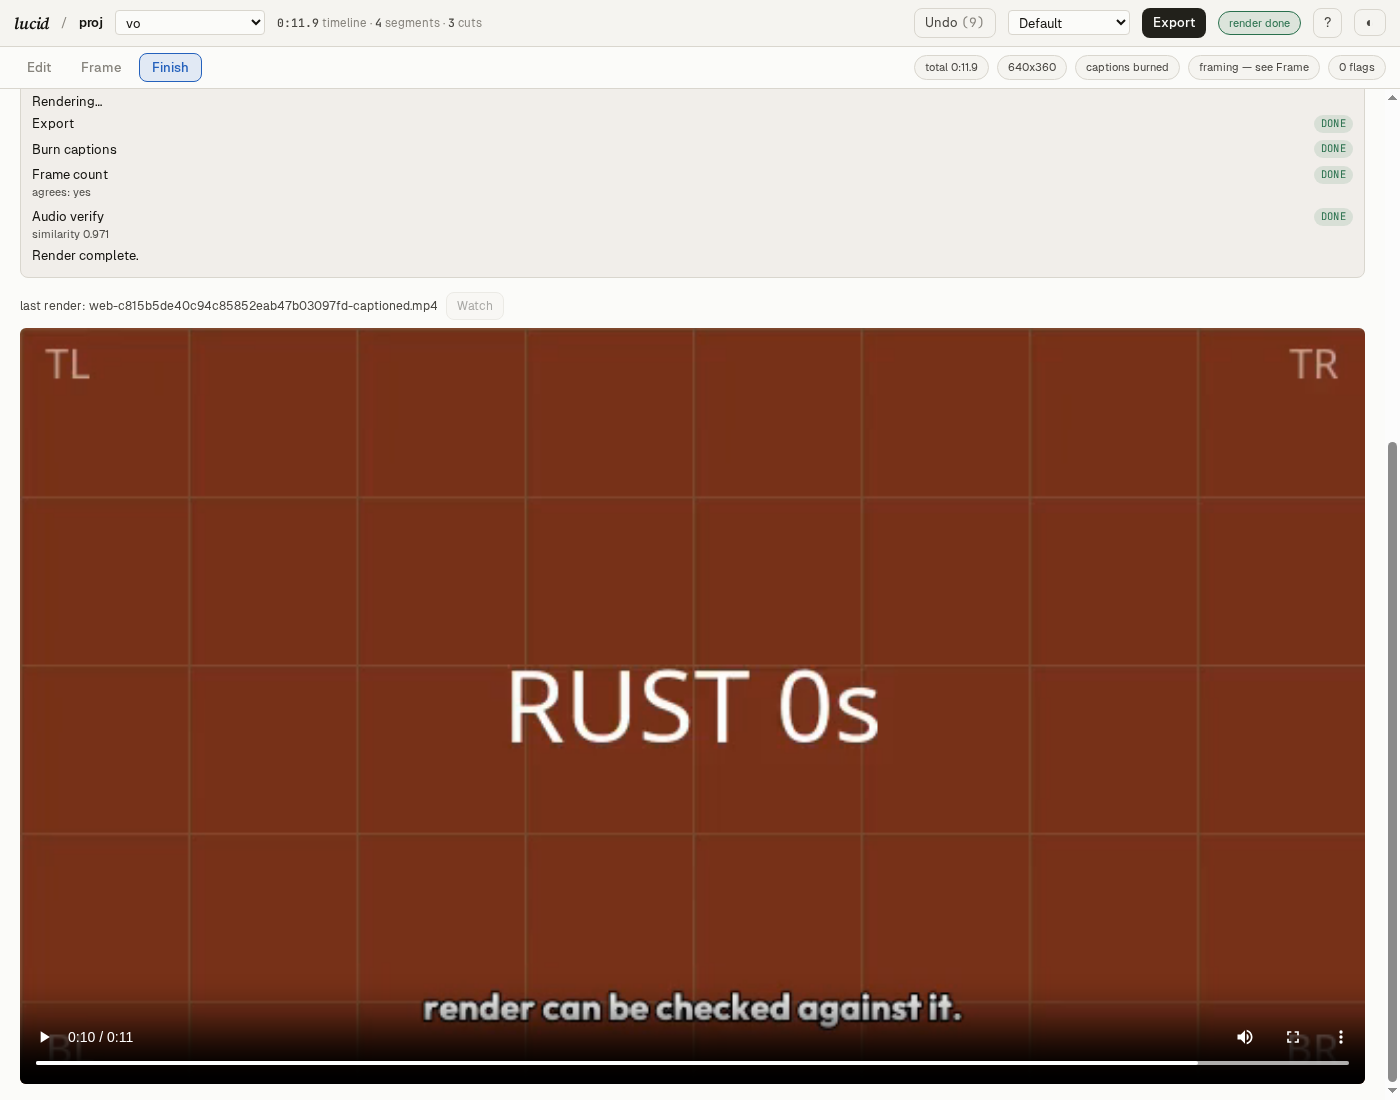
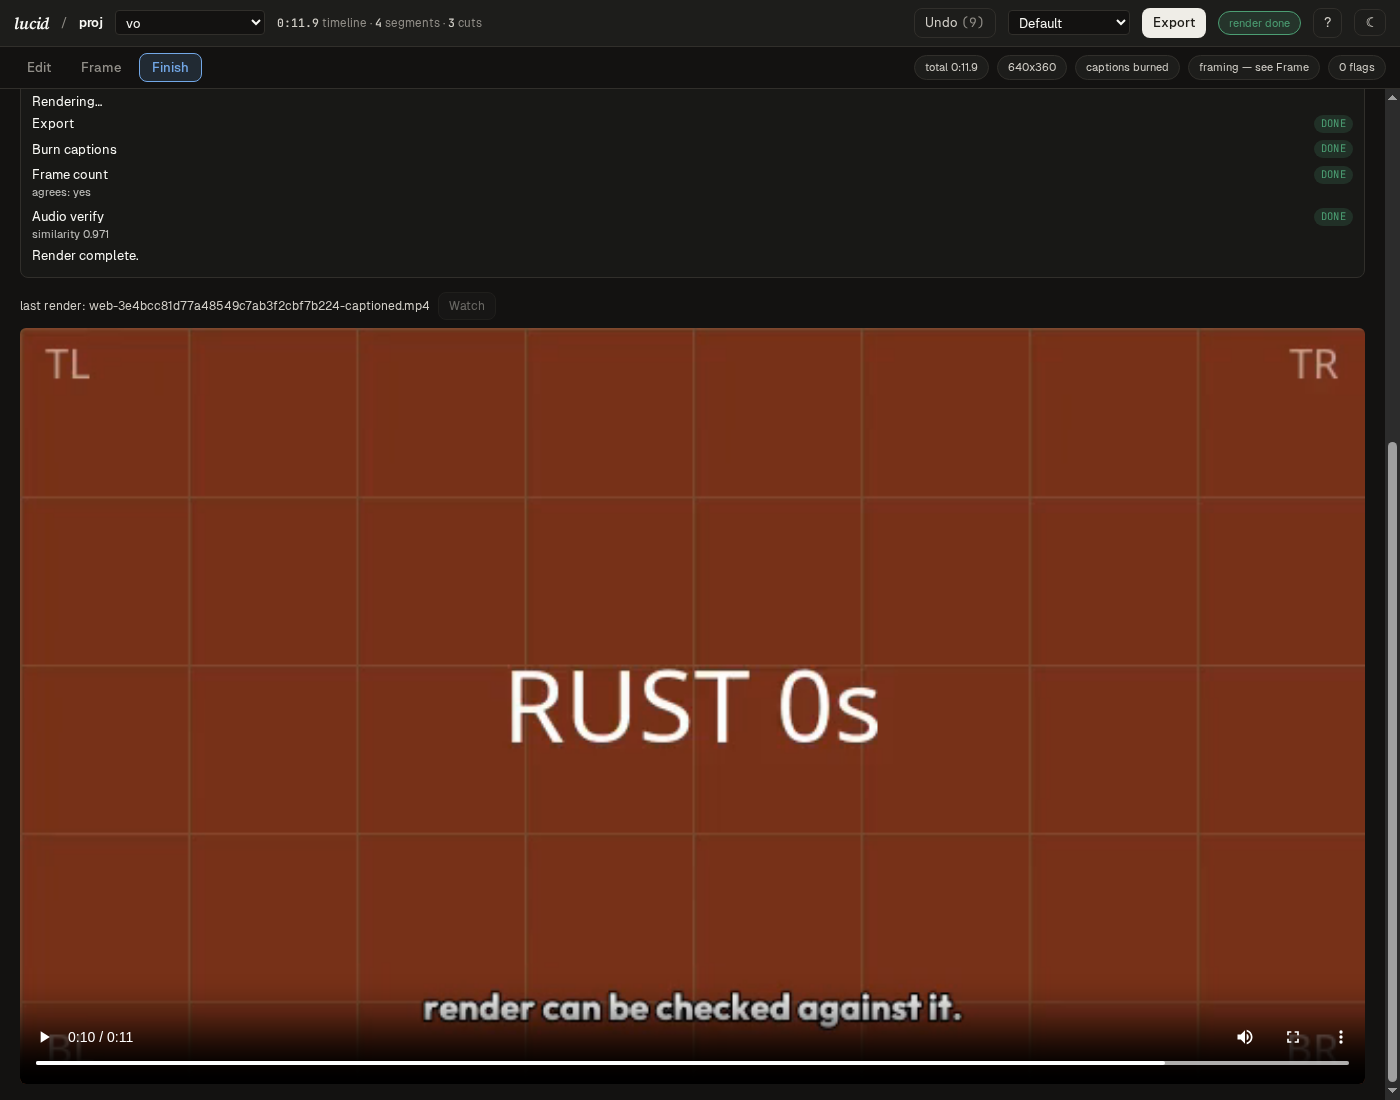
docs: the three README screenshots are dark again
Tyler read the set as "some dark mode, some light mode". All three were the
same theme — light — and the reading was right about something real: mean
luma ran 197 / 125 / 222 across Edit / Finish / Frame, because the demo's
rust and navy b-roll fills two of the three and Frame's sheet sits on a
near-empty page.

The cause was a lost mechanic. The 2026-08-19 set seeded
localStorage["lucid.theme"] before load on purpose — theme.js applies
data-theme in <head> before paint. The 2026-08-24 swap onto the demo project
recaptured all three and seeded nothing, so they came back at the default,
and neither commit's checks looked at the theme.

Recaptured dark, same compositions, same project: 32 / 53 / 30. The capture
route now lives in .claude/skills/verify-live/SKILL.md beside the harness
that performs it — the theme seed, one render filling both Finish's report
and Edit's completion card, Finish's Watch button and its own scroll
container, and .w.playing vs .w.sel in the transcript.

Both video frames settled by drawImage readback, not by looking at the
capture.

HISTORY.md § The screenshots went back to dark.

Claude-Session: https://claude.ai/code/session_01DbequQKyTMNaFRgqwNUdXU

diff --git a/HISTORY.md b/HISTORY.md
@@ -10753,3 +10753,51 @@ Every caption was rewritten to what its image actually shows. The old Frame
 one promised "a stacked split with its pane overlap measured", which the demo
 has none of; the old Finish one quoted 0.967, which was the Scream film's
 number.
+
+## The screenshots went back to dark — 2026-08-24
+
+Tyler read the README as "some dark mode, some light mode". All three were
+in fact the same theme — light — and the reading was still right about
+something real: mean luma ran 197 / 125 / 222 across Edit / Finish / Frame,
+a 97-point spread, because the demo's rust and navy b-roll fills two of the
+three images and Frame mode's sheet sits on a near-empty page. A set that
+disagrees with itself by that much does not read as one theme, whatever the
+`data-theme` attribute says. **The complaint named the attribute and was
+measuring the picture; both halves had to be checked before answering.**
+
+The cause was a lost mechanic rather than a decision. § The three screenshots
+are dark (2026-08-19) had seeded `localStorage["lucid.theme"]` before load
+deliberately — `theme.js` applies `data-theme` in `<head>` before paint, so a
+toggle afterwards flashes and the two canvases only repaint off its
+`lucid:theme` event. § The README screenshots came off the demo project, five
+days later, recaptured all three onto new footage and simply did not seed
+anything, so they came back at the default. Nothing said so: the images
+changed, the captions were rewritten to match, and the theme was not a thing
+either commit's checks looked at.
+
+Recaptured dark, same compositions, same demo project: 32 / 53 / 30, a
+23-point spread, and the remaining lightest one is Finish only because the
+rust footage fills it. The capture route is now written down in
+`.claude/skills/verify-live/SKILL.md` beside the harness that performs it,
+which is where the previous session would have found it.
+
+Three things the recapture had to relearn, all of them in that section now:
+
+- **One render fills two panes.** The Edit shot's "Export complete" card is
+  `agent.js`'s `handleRenderEvent`, not an agent run — the render job's SSE
+  stream draws it and Finish's stage report at once. So the theme has to be
+  seeded before the render, because neither survives a reload.
+- **Finish has no player until `Watch` is clicked**, and `#finish-view` is its
+  own scroll container; the report sits above the picture at its own
+  `scrollTop`, not the window's.
+- **The highlighted word in the Edit shot is `.w.playing`, not `.w.sel`.**
+  Clicking the word to seek raises the `.selection-toolbar` over the
+  transcript and `Escape` does not lower it — `refreshToolbar` hides on a null
+  selection, and the only gesture that nulls one is a `mousedown` outside any
+  `.w`. Seeking from the ruler leaves the playhead's own highlight and no
+  toolbar, which is what the earlier image had been showing all along.
+
+Both video frames were settled by `drawImage` readback rather than by looking
+at the capture — rust at (130, 66, 42) in the Edit preview, (128, 63, 40) in
+the Finish player — per the rule that a screenshot proves nothing either way
+about whether a `<video>` composited.

diff --git a/.claude/skills/verify-live/SKILL.md b/.claude/skills/verify-live/SKILL.md
@@ -39,6 +39,44 @@ node cdp.mjs shot out.png
 
 `CDP_PORT` overrides 9444.
 
+## Capturing the README screenshots
+
+They are dark, all three, and the theme is **seeded before the page loads,
+never toggled after it** — `theme.js` is the one classic script in `<head>`
+and applies `data-theme` before paint, so a toggle afterwards is a repaint the
+two canvases only follow via its `lucid:theme` event. Seeding means
+`localStorage`, which needs the origin, so it is goto, set, goto:
+
+```sh
+node cdp.mjs goto http://127.0.0.1:8793/
+node cdp.mjs eval '(() => localStorage.setItem("lucid.theme", "dark"))()'
+node cdp.mjs goto http://127.0.0.1:8793/    # now data-theme="dark" before paint
+```
+
+**Confirm the seed took, and then confirm the set agrees.** `#theme` reading
+`☾` says the attribute is set; only mean luma across the three says they read
+as one theme, and it is the check a recapture has twice not run. Two of the
+shots are mostly dark b-roll and Frame's sheet is mostly empty page, so a
+whole-set spread near 100 is a light capture wearing dark footage —
+HISTORY.md § The screenshots went back to dark.
+
+Each shot's state, and the order that gets all three from one page:
+
+- Render once from Finish (`#finish-render`). That one SSE stream fills both
+  Finish's stage report *and* the Edit agent pane's completion card — the card
+  is `handleRenderEvent`, not an agent run, so no `claude -p` is needed. It
+  does not survive a reload, so seed the theme **before** rendering.
+- **Finish** at `viewport 1400 1100`: click `Watch` (the player is not in the
+  page until then), seek the `<video>`, then `#finish-view`'s own `scrollTop`
+  to the bottom so the report sits above the picture.
+- **Frame** at 1400x900: `#frame-build-sheet`, then wait on `shot #` appearing
+  — a sheet takes seconds and the pane is honestly empty before it.
+- **Edit** at 1400x900: the highlighted word is `.w.playing`, the playhead's,
+  **not `.w.sel`** — clicking a word to seek raises the `.selection-toolbar`
+  over the transcript and Escape does not lower it. Seek from the ruler, or
+  clear with a `dragxy` on transcript whitespace, which is the gesture
+  `handleMouseDown` actually listens for.
+
 ## What it will not do for you
 
 - **`click` refuses a target it cannot hit.** It asserts
